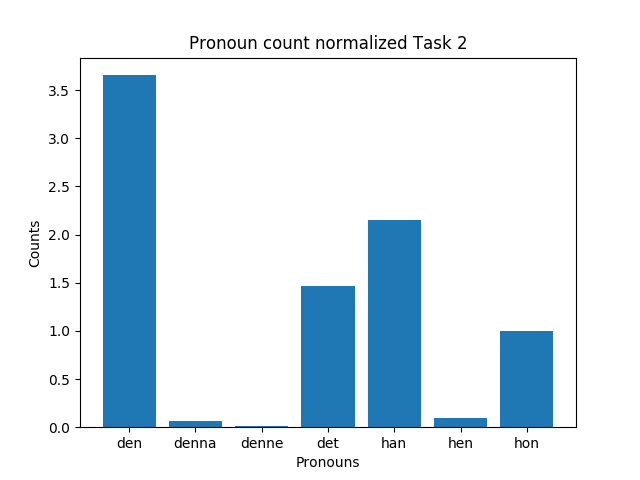
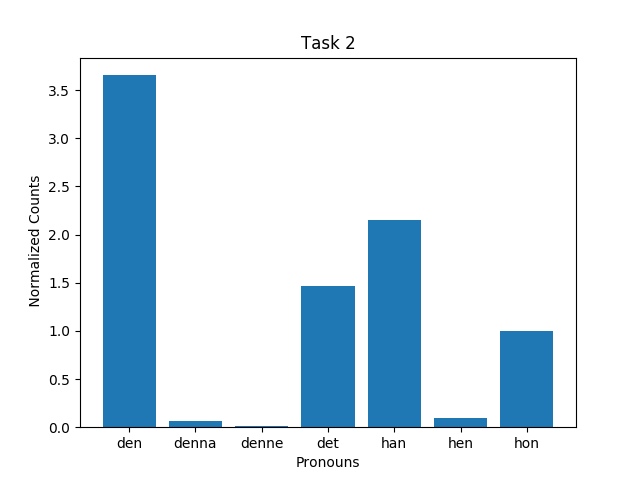
A1 final report

Changed region(s): [[0.2812, 0.0625, 0.7188, 0.125], [0.0312, 0.375, 0.0625, 0.6562]]

diff --git a/A1/code/FirstLetterCount.java b/A1/code/FirstLetterCount.java
@@ -22,9 +22,11 @@ public class FirstLetterCount {
                 //Get first character
                 //Strin firstChar = token.subtring(0,1)
                 char firstChar = token.charAt(0);
-                String s=Character.toString(firstChar);
-                word.set(s);
-                output.collect(word, one);
+                if (Character.isletter(firstChar)){
+                    String s=Character.toString(firstChar);
+                    word.set(s);
+                    output.collect(word, one);
+                }
             }
         }
     }

diff --git a/A1/code/plotter.py b/A1/code/plotter.py
@@ -21,11 +21,11 @@ with open(filepath) as file:
         y.append(int(freq))
 
 unique_tuits = y[-1]
-normalized_frequencies = [x / unique_tuits for x in y[1:] ]
+normalized_frequencies = [x / unique_tuits for x in y[1:]]
 
 plt.bar(x[1:], normalized_frequencies, align='center')
 plt.xticks(x[1:])
-plt.ylabel('Counts')
+plt.ylabel(' Normalized Counts')
 plt.xlabel('Pronouns')
-plt.title('Pronoun count normalized Task 2')
+plt.title('Task 2')
 plt.savefig('pronounstuits.png')
